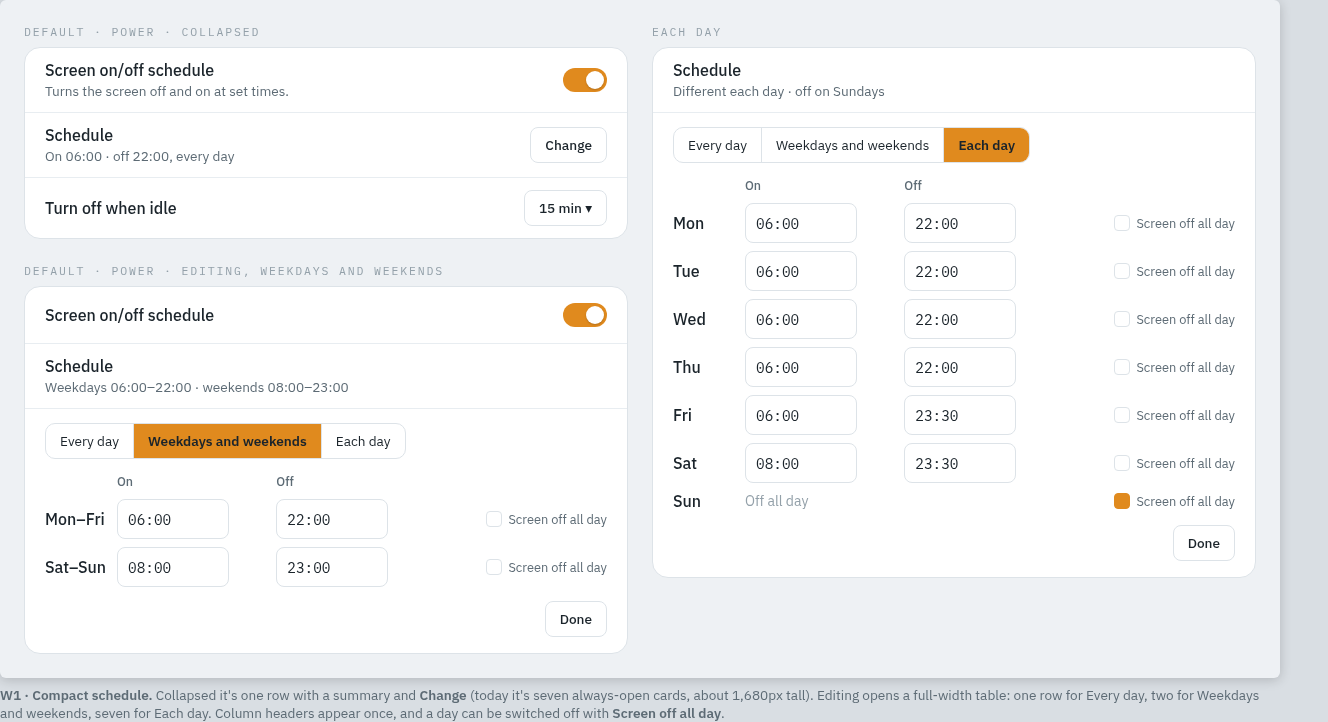
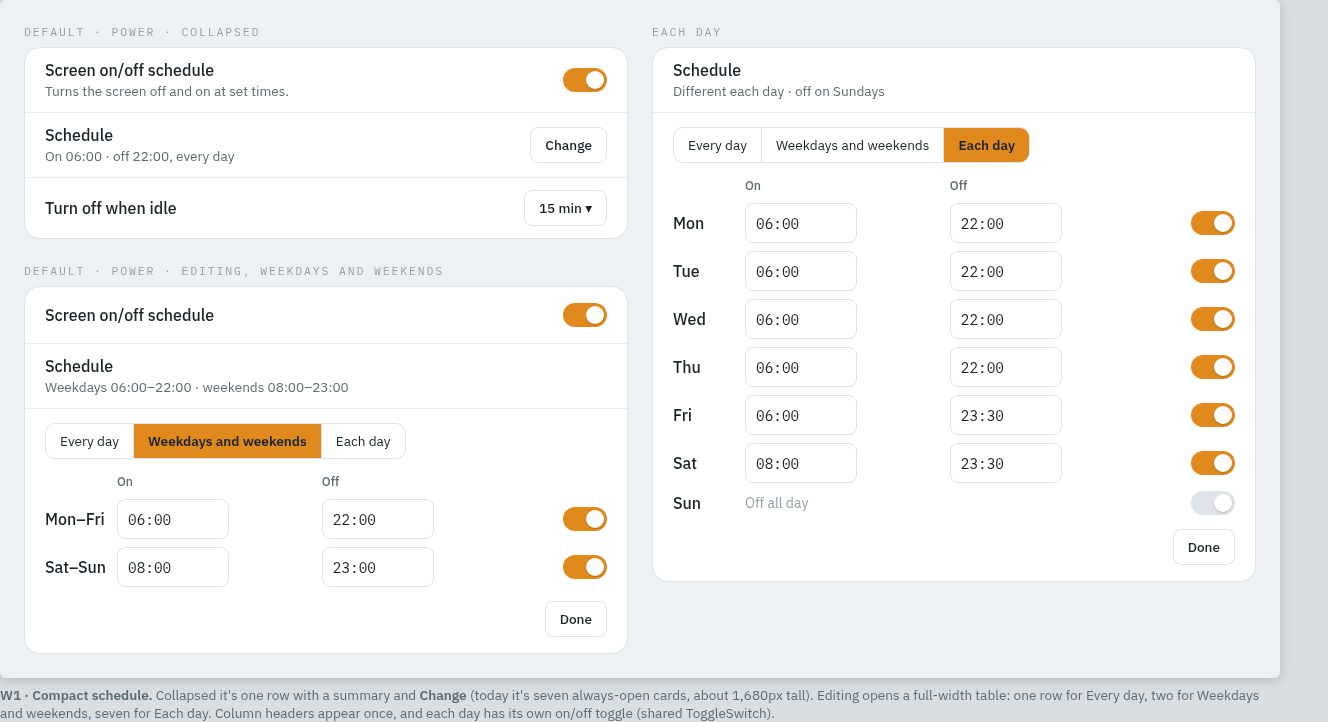
docs(design): schedule on doctrine blocks (FieldTable, ToggleSwitch); other bloated sections

diff --git a/docs/design/mocks/schedule/schedule.html b/docs/design/mocks/schedule/schedule.html
@@ -17,13 +17,13 @@ figure { margin:0 0 32px; } figcaption { font-size:.85rem; color:var(--ink-2); m
 .row { display:flex; align-items:center; gap:16px; padding:12px 20px; min-height:56px; }
 .row + .row, .row + .group, .group + .row { border-top:1px solid var(--line-soft); }
 .txt { flex:1; } .txt b { font-weight:500; display:block; } .txt span { font-size:.85rem; color:var(--ink-2); }
-.tog { width:44px; height:24px; border-radius:12px; background:var(--focus); position:relative; flex:none; } .tog::after { content:""; position:absolute; right:3px; top:3px; width:18px; height:18px; border-radius:50%; background:#fff; box-shadow:0 1px 2px rgba(0,0,0,.2); }
+.tog { display:inline-block; vertical-align:middle; width:44px; height:24px; border-radius:12px; background:var(--focus); position:relative; flex:none; } .tog::after { content:""; position:absolute; right:3px; top:3px; width:18px; height:18px; border-radius:50%; background:#fff; box-shadow:0 1px 2px rgba(0,0,0,.2); }
 .btn { height:36px; padding:0 14px; border:1px solid var(--line); border-radius:8px; display:inline-flex; align-items:center; font-size:.85rem; font-weight:500; background:var(--bg-2); }
 .group { padding:14px 20px 16px; }
 .seg { display:inline-flex; border:1px solid var(--line); border-radius:10px; overflow:hidden; font-size:.85rem; margin-bottom:14px; }
 .seg span { padding:8px 14px; border-left:1px solid var(--line); } .seg span:first-child { border-left:0; } .seg .on { background:var(--focus); color:var(--focus-ink); font-weight:600; }
 table { border-collapse:collapse; width:100%; } th { text-align:left; font-size:.78rem; font-weight:500; color:var(--ink-2); padding:0 0 6px; }
-td { padding:4px 0; } td.d { width:4.5rem; font-weight:500; }
+td { padding:4px 0; } td:last-child { text-align:right; } td.d { width:4.5rem; font-weight:500; }
 .t { width:7rem; height:40px; border:1px solid var(--line); border-radius:8px; display:flex; align-items:center; padding:0 10px; font-family:var(--font-data); font-size:.9rem; }
 .chk { font-size:.8rem; color:var(--ink-2); display:flex; gap:6px; align-items:center; justify-content:flex-end; } .chk i { width:16px; height:16px; border:1.5px solid var(--line); border-radius:4px; display:inline-block; } .chk i.y { background:var(--focus); border-color:var(--focus); }
 .offall { color:var(--ink-3); font-size:.88rem; }
@@ -49,8 +49,8 @@ td { padding:4px 0; } td.d { width:4.5rem; font-weight:500; }
           <div class="group">
             <div class="seg"><span>Every day</span><span class="on">Weekdays and weekends</span><span>Each day</span></div>
             <table><tr><th></th><th>On</th><th>Off</th><th></th></tr>
-              <tr><td class="d">Mon–Fri</td><td><div class="t">06:00</div></td><td><div class="t">22:00</div></td><td><span class="chk"><i></i>Screen off all day</span></td></tr>
-              <tr><td class="d">Sat–Sun</td><td><div class="t">08:00</div></td><td><div class="t">23:00</div></td><td><span class="chk"><i></i>Screen off all day</span></td></tr>
+              <tr><td class="d">Mon–Fri</td><td><div class="t">06:00</div></td><td><div class="t">22:00</div></td><td><span class="tog" style="margin-left:auto"></span></td></tr>
+              <tr><td class="d">Sat–Sun</td><td><div class="t">08:00</div></td><td><div class="t">23:00</div></td><td><span class="tog" style="margin-left:auto"></span></td></tr>
             </table>
             <div class="foot"><span class="btn">Done</span></div>
           </div>
@@ -63,20 +63,20 @@ td { padding:4px 0; } td.d { width:4.5rem; font-weight:500; }
           <div class="group">
             <div class="seg"><span>Every day</span><span>Weekdays and weekends</span><span class="on">Each day</span></div>
             <table><tr><th></th><th>On</th><th>Off</th><th></th></tr>
-              <tr><td class="d">Mon</td><td><div class="t">06:00</div></td><td><div class="t">22:00</div></td><td><span class="chk"><i></i>Screen off all day</span></td></tr>
-              <tr><td class="d">Tue</td><td><div class="t">06:00</div></td><td><div class="t">22:00</div></td><td><span class="chk"><i></i>Screen off all day</span></td></tr>
-              <tr><td class="d">Wed</td><td><div class="t">06:00</div></td><td><div class="t">22:00</div></td><td><span class="chk"><i></i>Screen off all day</span></td></tr>
-              <tr><td class="d">Thu</td><td><div class="t">06:00</div></td><td><div class="t">22:00</div></td><td><span class="chk"><i></i>Screen off all day</span></td></tr>
-              <tr><td class="d">Fri</td><td><div class="t">06:00</div></td><td><div class="t">23:30</div></td><td><span class="chk"><i></i>Screen off all day</span></td></tr>
-              <tr><td class="d">Sat</td><td><div class="t">08:00</div></td><td><div class="t">23:30</div></td><td><span class="chk"><i></i>Screen off all day</span></td></tr>
-              <tr><td class="d">Sun</td><td colspan="2" class="offall">Off all day</td><td><span class="chk"><i class="y"></i>Screen off all day</span></td></tr>
+              <tr><td class="d">Mon</td><td><div class="t">06:00</div></td><td><div class="t">22:00</div></td><td><span class="tog" style="margin-left:auto"></span></td></tr>
+              <tr><td class="d">Tue</td><td><div class="t">06:00</div></td><td><div class="t">22:00</div></td><td><span class="tog" style="margin-left:auto"></span></td></tr>
+              <tr><td class="d">Wed</td><td><div class="t">06:00</div></td><td><div class="t">22:00</div></td><td><span class="tog" style="margin-left:auto"></span></td></tr>
+              <tr><td class="d">Thu</td><td><div class="t">06:00</div></td><td><div class="t">22:00</div></td><td><span class="tog" style="margin-left:auto"></span></td></tr>
+              <tr><td class="d">Fri</td><td><div class="t">06:00</div></td><td><div class="t">23:30</div></td><td><span class="tog" style="margin-left:auto"></span></td></tr>
+              <tr><td class="d">Sat</td><td><div class="t">08:00</div></td><td><div class="t">23:30</div></td><td><span class="tog" style="margin-left:auto"></span></td></tr>
+              <tr><td class="d">Sun</td><td colspan="2" class="offall">Off all day</td><td><span class="tog" style="margin-left:auto;background:#dde3e8"></span></td></tr>
             </table>
             <div class="foot"><span class="btn">Done</span></div>
           </div>
         </div>
       </div>
     </div>
-    <figcaption><b>W1 · Compact schedule.</b> Collapsed it's one row with a summary and <b>Change</b> (today it's seven always-open cards, about 1,680px tall). Editing opens a full-width table: one row for Every day, two for Weekdays and weekends, seven for Each day. Column headers appear once, and a day can be switched off with <b>Screen off all day</b>.</figcaption>
+    <figcaption><b>W1 · Compact schedule.</b> Collapsed it's one row with a summary and <b>Change</b> (today it's seven always-open cards, about 1,680px tall). Editing opens a full-width table: one row for Every day, two for Weekdays and weekends, seven for Each day. Column headers appear once, and each day has its own on/off toggle (shared ToggleSwitch).</figcaption>
   </figure>
 </main>
 </body>

diff --git a/docs/design/2026-11-01-screen-schedule.md b/docs/design/2026-11-01-screen-schedule.md
@@ -37,12 +37,23 @@ control column.
    - Every day: 1 row, **Every day**.
    - Weekdays and weekends: 2 rows, **Mon–Fri** and **Sat–Sun**.
    - Each day: 7 rows, **Mon** … **Sun** (week order follows **Week starts on**).
-3. A row is 48px: the day label (`--text-label`, 4.5rem wide), then two `TextField type="time"` (`step` 900, i.e.
-   15-minute steps, `--control-height`, no per-field label; the accessible name is "Monday on" / "Monday off"), then
-   a **Screen off all day** check on the right (P3 native checkbox with `accent-color: var(--focus)` until a
-   shared checkbox exists). When checked, the two times hide and the row reads **Off all day** in `--ink-3`.
+3. A row is `--touch-target` tall:
+   - the day label (`--text-label`, 4.5rem wide);
+   - two `TextField type="time"` (`step` 900, i.e. 15-minute steps; `--control-height`; no per-field label; the
+     accessible name is "Monday on" / "Monday off");
+   - a `ToggleSwitch` on the right, accessible name **Screen on, Monday**. Off hides the two times and the row reads
+     **Off all day** in `--ink-3`.
 4. **Done** (`Button secondary sm`) collapses back to the summary. Changes save as you go (existing autosave), so
    Done only closes.
+
+**Doctrine blocks only, with no `<style>` in the feature:**
+- `SettingRow` for the summary row (label, summary as description, `Button` as control);
+- `SettingGroup` for the editor;
+- `SegmentedControl`, `TextField`, `ToggleSwitch`, `Button`, and `InlineNote` for the error;
+- the table is a **new block, `ui/FieldTable.vue`**: rows of label + controls, one header row, `--gap-inline`
+  between cells, `--touch-target` rows, `--text-meta` headers, stacking to label-over-controls under 360px. It gets a
+  gallery entry and leaves `DisplayScheduleGrid.vue` off the `settingsNoStyle` / `controlLint` allowlists. Any later
+  "same fields per row" editor reuses it.
 
 Heights: Every day ≈ 150px, Weekdays and weekends ≈ 200px, Each day ≈ 420px. All full width, so the phone shows the
 same table: day 4.5rem + two 7rem time fields fit 390px.
@@ -70,17 +81,36 @@ one override (as today): **Changed here · Reset to default** under the summary 
 
 - Row label **Schedule**; summary as in §2.1, using the user's time format (12h/24h).
 - Segments **Every day · Weekdays and weekends · Each day**.
-- Column headers **On** · **Off**; check **Screen off all day**.
+- Column headers **On** · **Off**; the row toggle is named **Screen on, {day}**.
 - An invalid range (off equal to on) gives the row an `InlineNote` err: **On and off can't be the same time.**
 - Off earlier than on means overnight. It's allowed and the summary says so: **On 22:00 · off 06:00 the next day**.
 
-## 4. Tests (vitest)
+## 4. Other sections that need the same treatment
+
+Measured with the mocked harness at 1280 (section heights):
+
+| Section | Height | Problem | Fix |
+|---|---|---|---|
+| Dashboard › **Clock bar layout** | **1,062px** | For both bar shapes: 3 sliders each, stacked under Title Case labels ("Time Font Size", "Bar Padding", "Plugin Item Size") and only half-width, plus a preview | Per bar: **Size** `SegmentedControl` **Small · Medium · Large · Custom** (presets write the 3 values). **Custom** opens a `SettingGroup` with three `SettingRow`s (**Time**, **Padding**, **Plugin info**: label left, `RangeSlider` right, value in px). One shared live preview under the section. Collapsed ≈ 250px |
+| Screens › **Touch & keyboard** | 618px | every row stacks its control under the text even at 1280; the label "Show it" lost its context | rows go side by side at ≥ 600px (§ below); "Show it" becomes **On-screen keyboard**; only **Also switch to** (6 chips) stays stacked. ≈ 380px |
+| Dashboard › **Focus & remote** | 884px | (1) three per-screen rows (**Photo frame**, **Loading light**, **Layout**) sit in a Dashboard section, while every other per-screen setting lives on the screen pages; (2) their descriptions render in `--text-body`, larger than every other description | move those three to Screens › Default / each screen, in a new section **Behaviour** (they carry "Same as Default" already); descriptions use `--text-meta`. Focus & remote keeps Focus light, Dim, Dashboard size and the button rows. ≈ 450px |
+| Screens list (875px), Content › Photos (794px) | | content-driven (cards, sources) | fine |
+
+**SettingRow rule (doctrine §4 row anatomy, clarified):**
+- side by side at ≥ 600px for any control up to 50% of the row width;
+- stacked only on phone, or for wide controls (chip groups, tables, sliders with a preview), via `:stacked`;
+- never stacked just because the description is long: the description wraps in the left column instead;
+- a height guard e2e (mocked harness) fails if a single `SettingRow` with a toggle, segmented control or select is
+  taller than 120px at 1280.
+
+## 5. Tests (vitest)
 
 - Collapsed summary for each of the three shapes, plus "Off on Sundays"; 12h formatting.
 - Mode inference from arrays (equal times, weekday/weekend split, mixed).
 - Mode switching writes the array as in §2.3; editing a grouped row updates its whole group.
 - Change expands the editor; Done collapses; the editor is full width; one header row only.
-- Screen off all day hides the times and saves `enabled: false`.
+- Turning a day's toggle off hides its times and saves `enabled: false`.
+- `FieldTable` unit tests + gallery entry; `DisplayScheduleGrid` removed from the lint allowlists.
 - Same-time error; overnight summary.
 - Screen page: Reset to default clears the schedule override.
 - Height guard (e2e, mocked harness): the collapsed Power section is ≤ 260px tall at 1280 and 390.
